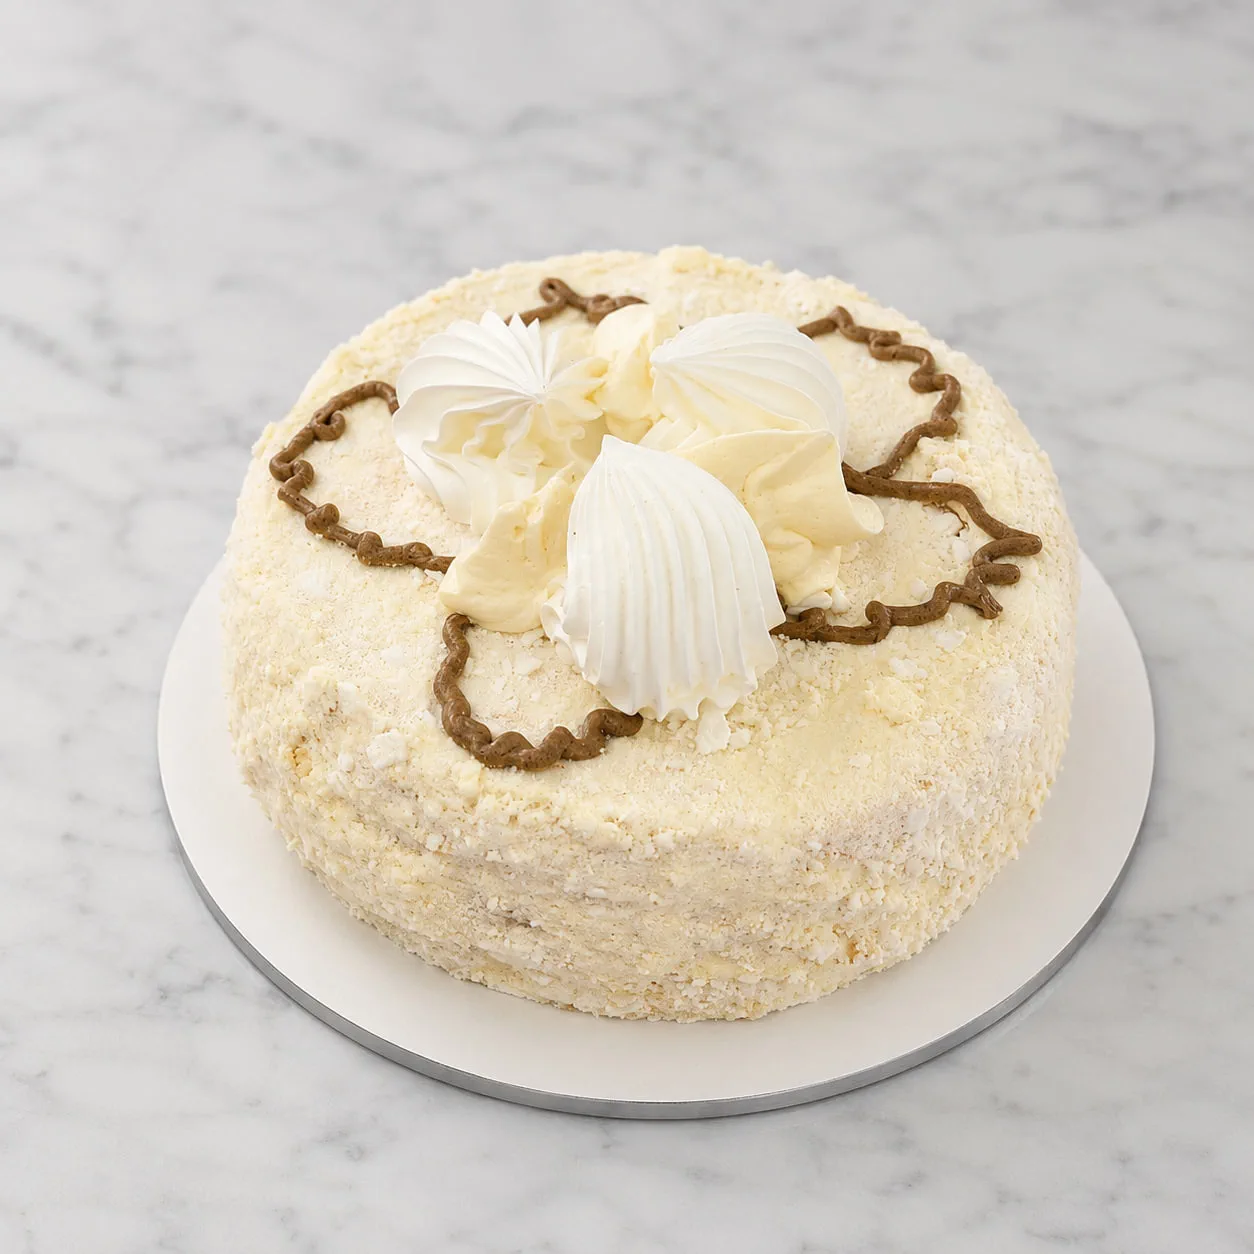
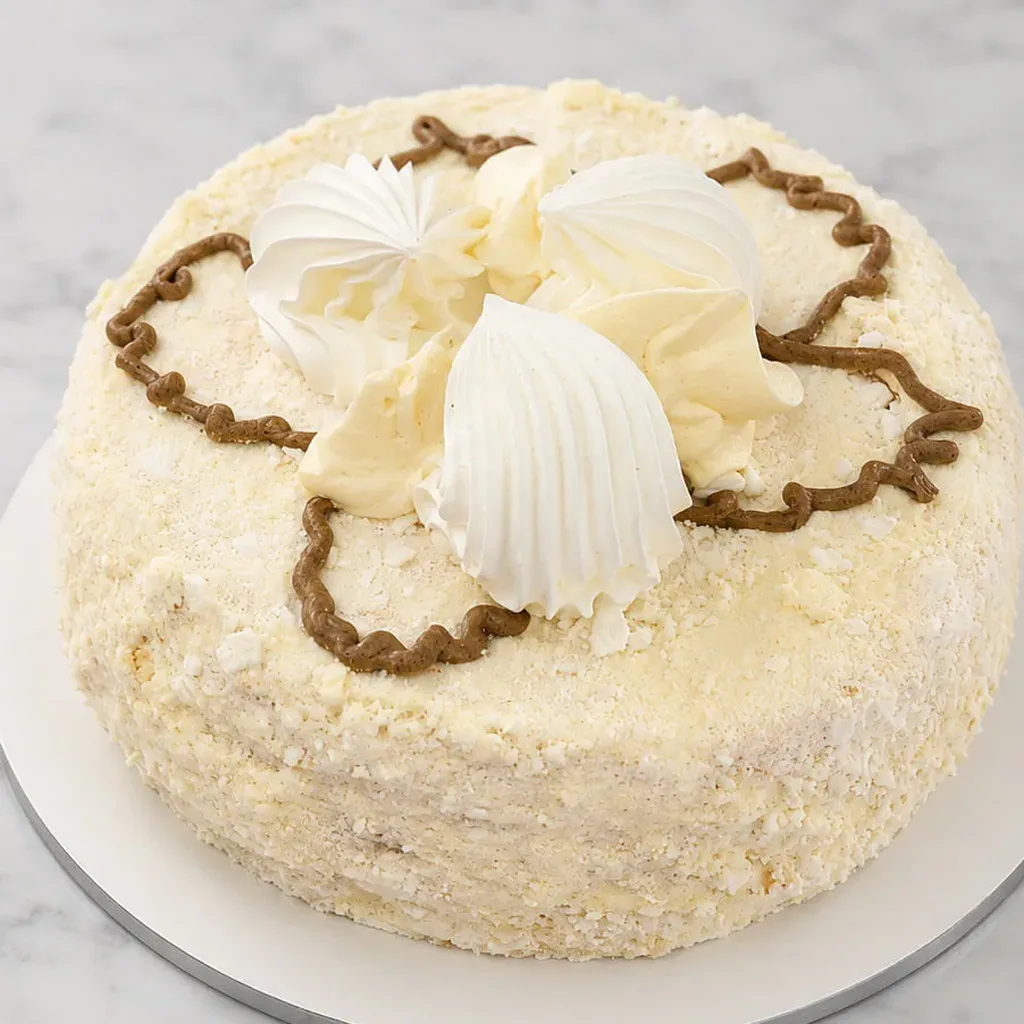
Унификация масштаба фото товаров: торт ~80% кадра
Перекадрированы 14 файлов: оба Полёта (премиум, кедровый),
шу, корзиночка, кольца, суфле, бисквитно-кремовое, чародейка,
царские, эклеры, графские развалины, вишнёвый разрез,
забайкальская птичка — теперь квадрат и предмет крупный,
как у новых карточек. sw -> v30.

Generated with [Devin](https://devin.ai)

diff --git a/sw.js b/sw.js
@@ -1,5 +1,5 @@
 /* Service Worker — Кондитерская фабрика «Восток» (PWA) */
-const VERSION = "vostok-v29";
+const VERSION = "vostok-v30";
 const STATIC_CACHE = `${VERSION}-static`;
 const RUNTIME_CACHE = `${VERSION}-runtime`;
 
